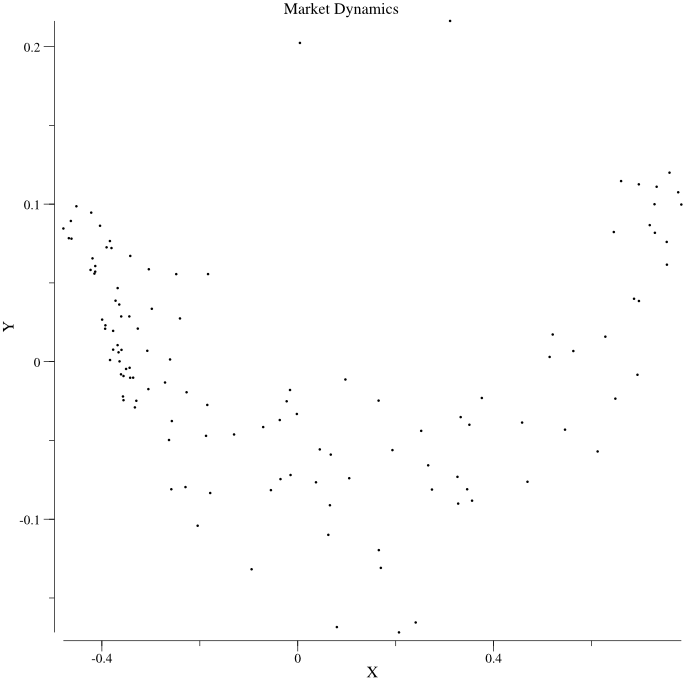
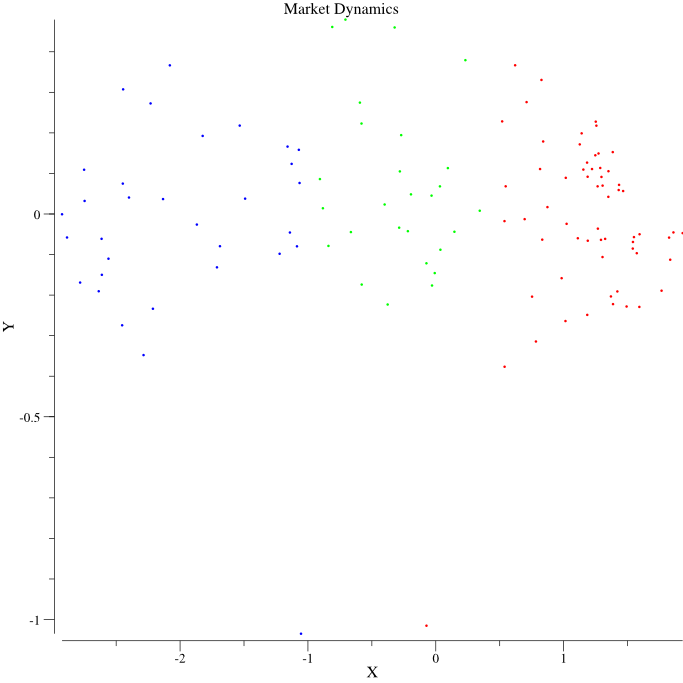
Added stock plot

diff --git a/main.go b/main.go
@@ -3,6 +3,7 @@ package main
 import (
 	"encoding/csv"
 	"fmt"
+	"image/color"
 	"log"
 	"math"
 	"math/rand"
@@ -12,9 +13,10 @@ import (
 
 	"github.com/goml/gobrain"
 	"github.com/gonum/plot"
-	"github.com/gonum/plot/plotter"
+	//"github.com/gonum/plot/plotter"
 	"github.com/gonum/plot/vg"
 	"github.com/gonum/plot/vg/draw"
+	"github.com/pointlander/kmeans"
 	"github.com/skelterjohn/go.matrix"
 )
 
@@ -129,7 +131,7 @@ func cov(x *matrix.DenseMatrix) *matrix.DenseMatrix {
 }
 
 func PCA(m *matrix.DenseMatrix, size int) *matrix.DenseMatrix {
-	norm(m)
+	//norm(m)
 	subtract(m, mean(m))
 	var v *matrix.DenseMatrix
 	{
@@ -150,6 +152,56 @@ func PCA(m *matrix.DenseMatrix, size int) *matrix.DenseMatrix {
 		log.Fatal(err)
 	}
 	return r
+}
+
+type CPoint struct {
+	X, Y float64
+	C    int
+}
+
+type CPoints struct {
+	CPoints []CPoint
+}
+
+func (cp *CPoints) Plot(c draw.Canvas, plt *plot.Plot) {
+	trX, trY := plt.Transforms(&c)
+	for _, point := range cp.CPoints {
+		x := trX(point.X)
+		y := trY(point.Y)
+
+		var p vg.Path
+		p.Move(x+1, y)
+		p.Arc(x, y, 1, 0, 2*math.Pi)
+		p.Close()
+		switch point.C {
+		case 0:
+			c.SetColor(color.RGBA{0, 255, 0, 255})
+		case 1:
+			c.SetColor(color.RGBA{255, 0, 0, 255})
+		case 2:
+			c.SetColor(color.RGBA{0, 0, 255, 255})
+		}
+		c.Fill(p)
+	}
+}
+
+func (cp *CPoints) DataRange() (xmin, xmax, ymin, ymax float64) {
+	xmin, xmax, ymin, ymax = math.MaxFloat64, 0, math.MaxFloat64, 0
+	for _, point := range cp.CPoints {
+		if point.X < xmin {
+			xmin = point.X
+		}
+		if point.X > xmax {
+			xmax = point.X
+		}
+		if point.Y < ymin {
+			ymin = point.Y
+		}
+		if point.Y > ymax {
+			ymax = point.Y
+		}
+	}
+	return
 }
 
 func main() {
@@ -245,11 +297,26 @@ func main() {
 	fmt.Println(prices[i-1].t)
 	train(prices[i-1].t.Year(), patterns)
 
-	r := PCA(model, 2)
-	rows := r.Rows()
-	points := make(plotter.XYs, rows)
+	//norm(model)
+	rows, cols := model.Rows(), model.Cols()
+	rawData := make([][]float64, rows)
 	for i := 0; i < rows; i++ {
-		points[i].X, points[i].Y = r.Get(i, 0), r.Get(i, 1)
+		rawData[i] = make([]float64, cols)
+		for j := 0; j < cols; j++ {
+			rawData[i][j] = model.Get(i, j)
+		}
+	}
+	labels, _, err := kmeans.Kmeans(rawData, 3, kmeans.CanberraDistance, 10)
+	if err != nil {
+		log.Fatal(err)
+	}
+
+	r := PCA(model.Copy(), 2)
+	rows = r.Rows()
+	points := make([]CPoint, rows)
+	for i := 0; i < rows; i++ {
+		points[i].X, points[i].Y, points[i].C =
+			r.Get(i, 0), r.Get(i, 1), labels[i]
 	}
 
 	p, err := plot.New()
@@ -259,14 +326,34 @@ func main() {
 	p.Title.Text = "Market Dynamics"
 	p.X.Label.Text = "X"
 	p.Y.Label.Text = "Y"
-	scatter, err := plotter.NewScatter(points)
+	p.Add(&CPoints{points})
+	if err := p.Save(512, 512, "market_dynamics.png"); err != nil {
+		log.Fatal(err)
+	}
+
+	ticks := []plot.Tick{}
+	for _, price := range prices {
+		if price.t.Year()%2 == 0 && price.t.YearDay() == 1 {
+			ticks = append(ticks, plot.Tick{float64(price.t.Unix()), fmt.Sprintf("%v", price.t.Year())})
+		}
+	}
+
+	cpoints := make([]CPoint, len(prices))
+	for i, price := range prices {
+		cpoints[i].X, cpoints[i].Y, cpoints[i].C =
+			float64(price.t.Unix()), price.price, labels[price.t.Year()-minYear]
+	}
+
+	p, err = plot.New()
 	if err != nil {
 		log.Fatal(err)
 	}
-	scatter.Shape = draw.CircleGlyph{}
-	scatter.Radius = vg.Points(1)
-	p.Add(scatter)
-	if err := p.Save(512, 512, "market_dynamics.png"); err != nil {
+	p.Title.Text = "DJIA"
+	p.X.Label.Text = "Time"
+	p.Y.Label.Text = "Price"
+	p.X.Tick.Marker = plot.ConstantTicks(ticks)
+	p.Add(&CPoints{cpoints})
+	if err := p.Save(2048, 2048, "market_prices.png"); err != nil {
 		log.Fatal(err)
 	}
 }
